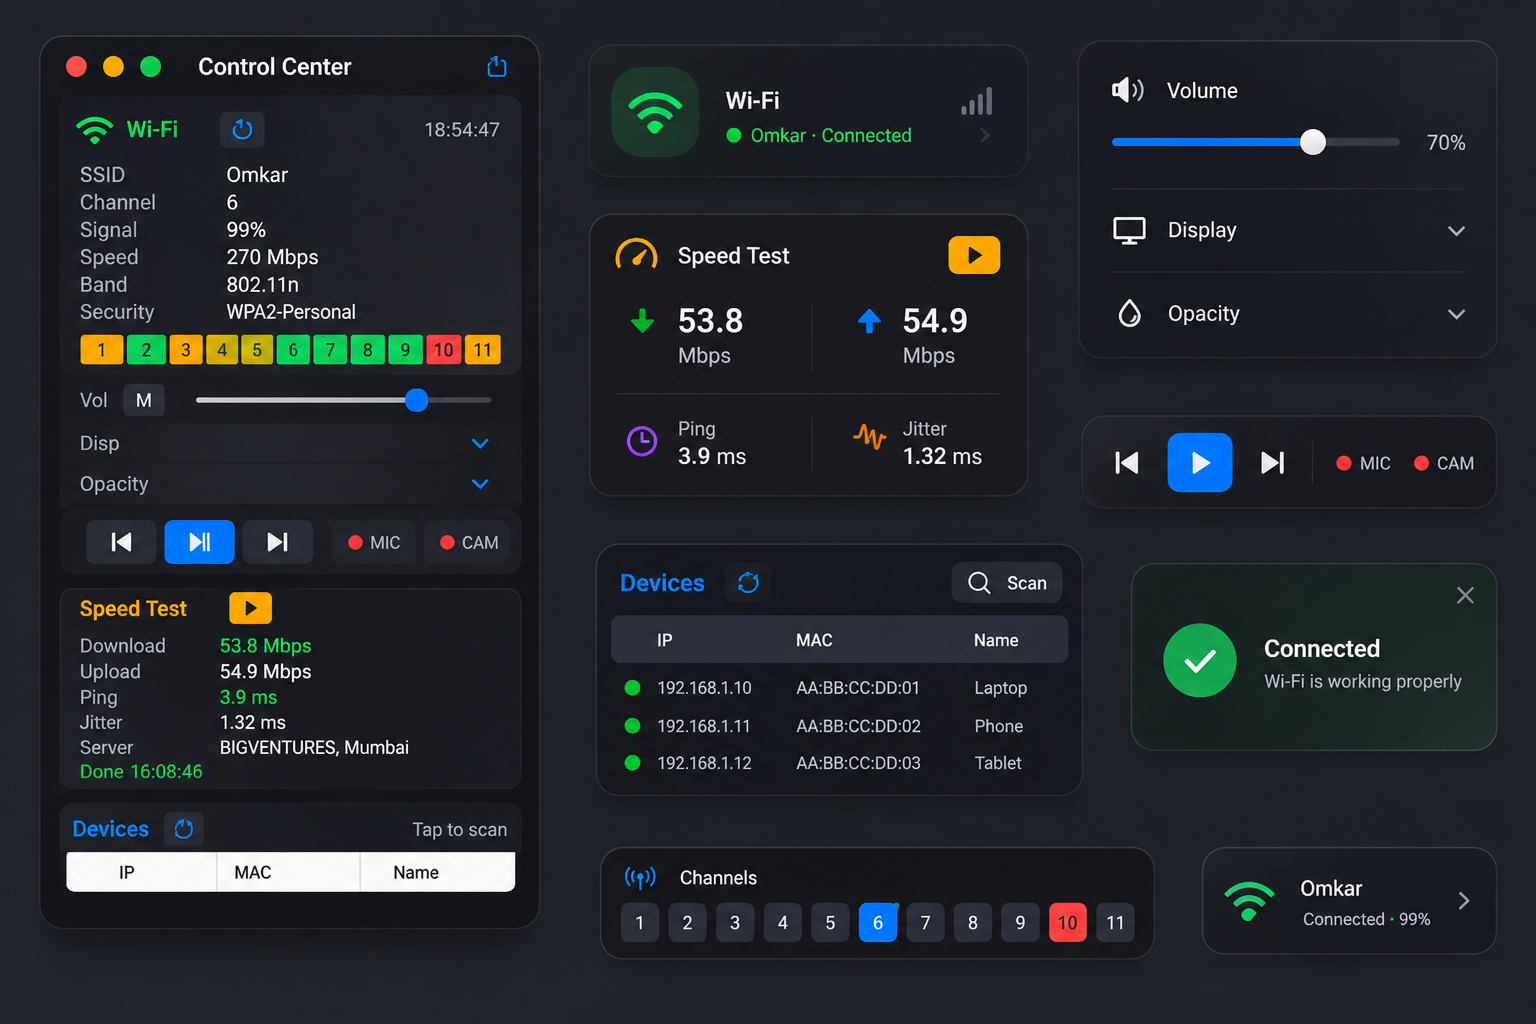
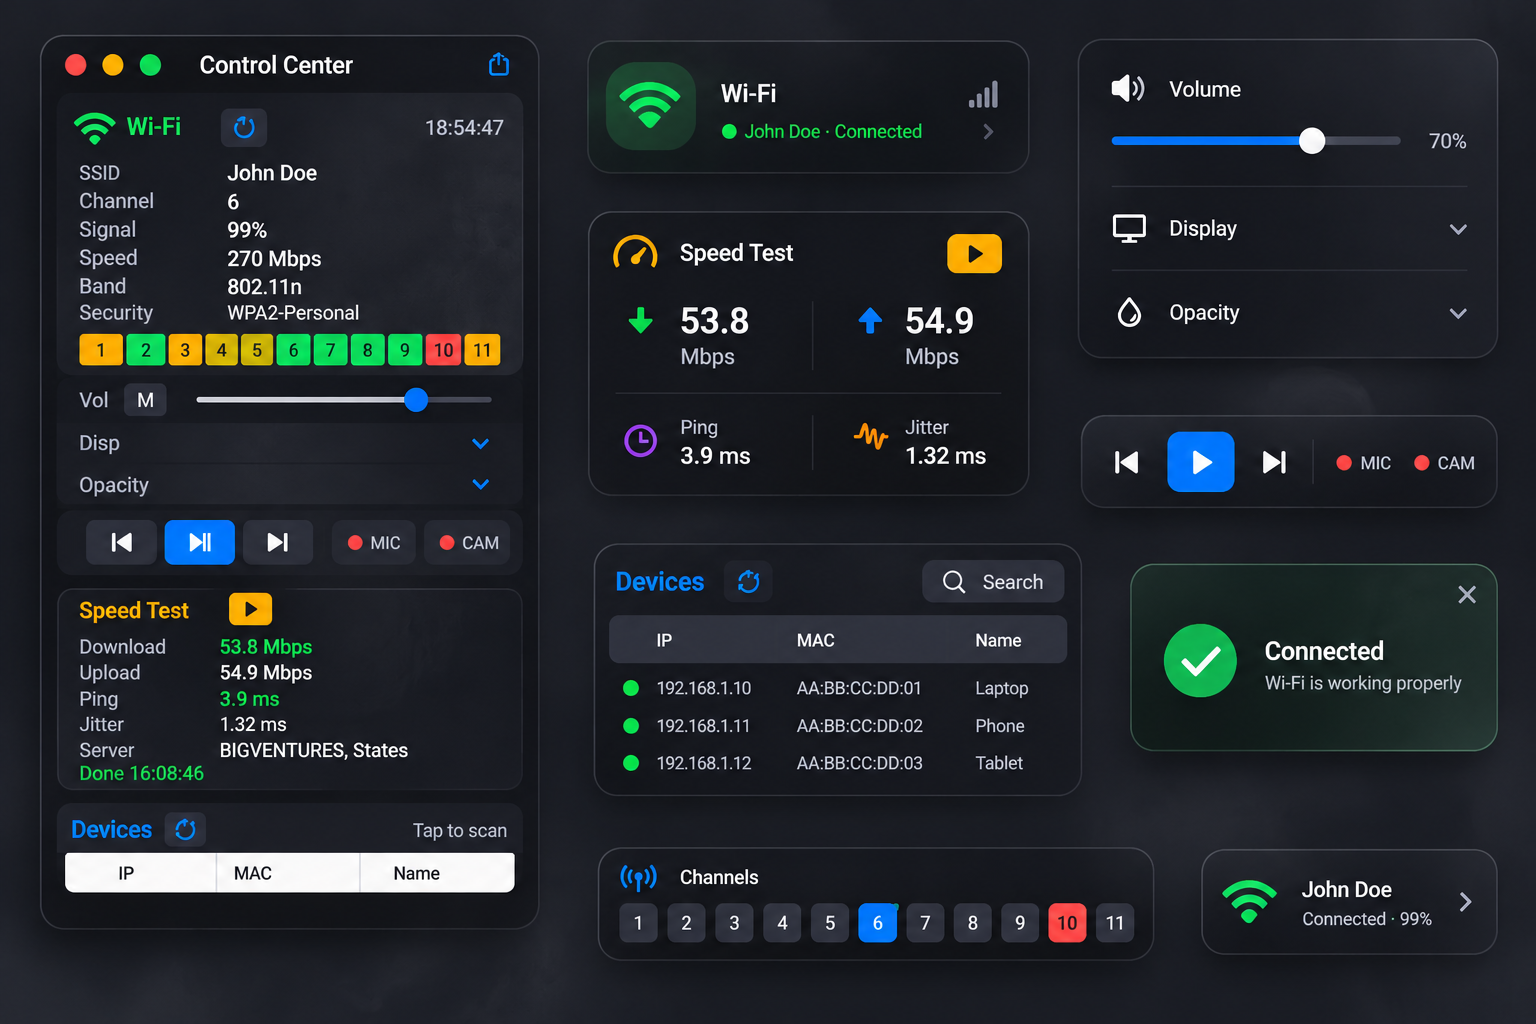
Add sanitized widget screenshot to README
Add Control Center widget screenshot with personal data replaced
(SSID, server location). Reference image in README for repo landing page.

diff --git a/README.md b/README.md
@@ -6,6 +6,8 @@ A macOS-style Control Center desktop widget for Windows 10/11, built entirely in
 ![PowerShell](https://img.shields.io/badge/PowerShell-5.1+-purple)
 ![License](https://img.shields.io/badge/License-MIT-green)
 
+![Control Center Widget](Wifi%20controller.png)
+
 ## Features
 
 - **Volume Control** — System volume slider via Windows Core Audio COM API. Mute toggle.
